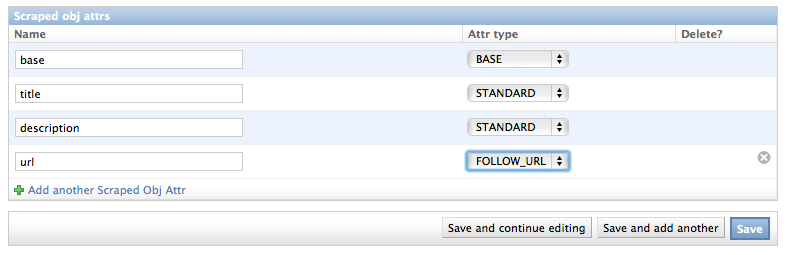
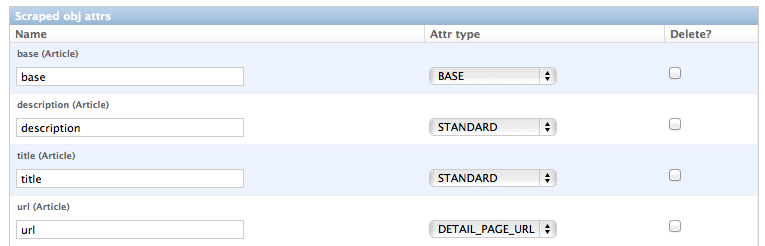
Renamed attr type of ScrapedObjAttr (FOLLOW_URL -> DETAIL_PAGE_URL) and ScraperElem.follow_url -> ScraperElem.from_detail_page in models.py for better on-the-fly understanding

diff --git a/dynamic_scraper/spiders/django_spider.py b/dynamic_scraper/spiders/django_spider.py
@@ -31,7 +31,7 @@ class DjangoSpider(DjangoBaseSpider):
         self._set_start_urls(self.scraper_runtime.url)
         self.scheduler = Scheduler(self.scraper.scraped_obj_class.scraper_scheduler_conf)
         self._check_scraper_config()
-        self.follow_url = False
+        self.from_detail_page = False
         self.loader = None
         self.items_read_count = 0
         self.items_save_count = 0
@@ -43,13 +43,13 @@ class DjangoSpider(DjangoBaseSpider):
         except ScraperElem.DoesNotExist:
             raise CloseSpider('Please define a base scraper elem in your database!')
         try:
-            self.scraper.get_follow_url_elem() 
+            self.scraper.get_detail_page_url_elem() 
         except ScraperElem.DoesNotExist:
-            raise CloseSpider('Please define a url scraper elem in your database!')
+            raise CloseSpider('Please define a detail page url scraper elem in your database!')
         if(len(self.scraper.get_base_elems()) > 1):
             raise CloseSpider('A scraper can\'t have more than one base scraper elem!')
-        if(len(self.scraper.get_follow_url_elems()) > 1):
-            raise CloseSpider('A scraper can\'t have more than one url scraper elem!')
+        if(len(self.scraper.get_detail_page_url_elems()) > 1):
+            raise CloseSpider('A scraper can\'t have more than one detail page url scraper elem!')
 
 
     def _set_start_urls(self, scrape_url):
@@ -100,8 +100,6 @@ class DjangoSpider(DjangoBaseSpider):
 
     def _set_loader_context(self, context_str):
         try:
-            #add_ctxt1 = "'pre_log_msg': '" + self.pre_log_msg + "'"
-            #context_str = ", ".join([context_str, add_ctxt1])
             context_str = context_str.strip(', ')
             context = ast.literal_eval("{" + context_str + "}")
             self.loader.context = context
@@ -120,7 +118,7 @@ class DjangoSpider(DjangoBaseSpider):
 
 
     def _scrape_item_attr(self, scraper_elem):
-        if(self.follow_url == scraper_elem.follow_url):
+        if(self.from_detail_page == scraper_elem.from_detail_page):
             procs = self._get_processors(scraper_elem.processors)
             self._set_loader_context(scraper_elem.proc_ctxt)
             if(scraper_elem.reg_exp):
@@ -131,19 +129,19 @@ class DjangoSpider(DjangoBaseSpider):
 
     def _set_loader(self, response, hxs, item):
         if not hxs:
-            self.follow_url = True
+            self.from_detail_page = True
             item = response.request.meta['item']
             self.loader = XPathItemLoader(item=item, response=response)
             self.loader.default_output_processor = TakeFirst()
         else:
-            self.follow_url = False
+            self.from_detail_page = False
             self.loader = XPathItemLoader(item=item, selector=hxs)
             self.loader.default_output_processor = TakeFirst()
 
 
     def parse_item(self, response, hxs=None):
         self._set_loader(response, hxs, self.scraped_obj_item_class())
-        if not self.follow_url:
+        if not self.from_detail_page:
             self.items_read_count += 1
             
         elems = self.scraper.get_scrape_elems()
@@ -156,7 +154,7 @@ class DjangoSpider(DjangoBaseSpider):
     def parse(self, response):
         hxs = HtmlXPathSelector(response)
         base_elem = self.scraper.get_base_elem()
-        url_elem = self.scraper.get_follow_url_elem()
+        url_elem = self.scraper.get_detail_page_url_elem()
         base_objects = hxs.select(base_elem.x_path)
         if(len(base_objects) == 0):
             self.log("No base objects found!", log.ERROR)
@@ -170,7 +168,7 @@ class DjangoSpider(DjangoBaseSpider):
             url_name = url_elem.scraped_obj_attr.name
             if(item and url_name in item):
                 cnt = self.scraped_obj_class.objects.filter(url=item[url_name]).count()
-                cnt2 = self.scraper.get_scrape_elems_with_follow_url().count()
+                cnt2 = self.scraper.get_from_detail_page_scrape_elems().count()
                 # Check for double items
                 if cnt > 0:
                     item[url_name] = 'DOUBLE'

diff --git a/dynamic_scraper/models.py b/dynamic_scraper/models.py
@@ -26,7 +26,7 @@ class ScrapedObjAttr(models.Model):
     ATTR_TYPE_CHOICES = (
         ('S', 'STANDARD'),
         ('B', 'BASE'),
-        ('U', 'FOLLOW_URL'),
+        ('U', 'DETAIL_PAGE_URL'),
         ('I', 'IMAGE'),
     )
     name = models.CharField(max_length=200)
@@ -62,10 +62,10 @@ class Scraper(models.Model):
     def get_base_elem(self):
         return self.scraperelem_set.get(scraped_obj_attr__attr_type='B')
     
-    def get_follow_url_elems(self):
+    def get_detail_page_url_elems(self):
         return self.scraperelem_set.filter(scraped_obj_attr__attr_type='U')
     
-    def get_follow_url_elem(self):
+    def get_detail_page_url_elem(self):
         return self.scraperelem_set.get(scraped_obj_attr__attr_type='U')
 
     def get_standard_elems(self):
@@ -89,8 +89,8 @@ class Scraper(models.Model):
         q3 = Q(scraped_obj_attr__attr_type='I')
         return self.scraperelem_set.filter(q1 | q2 | q3).filter(mandatory=True)
     
-    def get_scrape_elems_with_follow_url(self):
-        q1 = Q(follow_url=True)
+    def get_from_detail_page_scrape_elems(self):
+        q1 = Q(from_detail_page=True)
         return self.scraperelem_set.filter(q1)
     
     def __unicode__(self):
@@ -102,7 +102,7 @@ class ScraperElem(models.Model):
     scraper = models.ForeignKey(Scraper)   
     x_path = models.CharField(max_length=200)
     reg_exp = models.CharField(max_length=200, blank=True)
-    follow_url = models.BooleanField()
+    from_detail_page = models.BooleanField()
     processors = models.CharField(max_length=200, blank=True)
     proc_ctxt = models.CharField(max_length=200, blank=True)
     mandatory = models.BooleanField(default=True)

diff --git a/tests/scraper/scraper_test.py b/tests/scraper/scraper_test.py
@@ -114,16 +114,16 @@ class ScraperTest(TestCase):
         self.scraper.save()
         
         self.se_base = ScraperElem(scraped_obj_attr=self.soa_base, scraper=self.scraper, 
-        x_path=u'//ul/li', follow_url=False)
+        x_path=u'//ul/li', from_detail_page=False)
         self.se_base.save()
         self.se_title = ScraperElem(scraped_obj_attr=self.soa_title, scraper=self.scraper, 
-            x_path=u'a/text()', follow_url=False)
+            x_path=u'a/text()', from_detail_page=False)
         self.se_title.save()
         self.se_url = ScraperElem(scraped_obj_attr=self.soa_url, scraper=self.scraper, 
-            x_path=u'a/@href', follow_url=False)
+            x_path=u'a/@href', from_detail_page=False)
         self.se_url.save()
         self.se_desc = ScraperElem(scraped_obj_attr=self.soa_desc, scraper=self.scraper, 
-            x_path=u'//div/div[@class="description"]/text()', follow_url=True, mandatory=False)
+            x_path=u'//div/div[@class="description"]/text()', from_detail_page=True, mandatory=False)
         self.se_desc.save()
         
         self.sched_rt = SchedulerRuntime()

diff --git a/tests/scraper/scraper_run_test.py b/tests/scraper/scraper_run_test.py
@@ -29,9 +29,9 @@ class ScraperRunTest(ScraperTest):
         self.assertEqual(Event.objects.get(title='Event 1').description, u'Event 1 description')
     
     
-    def test_standard_field_as_follow_url_hack(self):
+    def test_standard_field_as_detail_page_url_hack(self):
         self.se_desc.x_path = u'a/text()'
-        self.se_desc.follow_url = False
+        self.se_desc.from_detail_page = False
         self.se_desc.save()
         self.soa_title.attr_type = 'U'
         self.soa_title.save()

diff --git a/dynamic_scraper/pipelines.py b/dynamic_scraper/pipelines.py
@@ -52,7 +52,7 @@ class DjangoImagesPipeline(ImagesPipeline):
 class ValidationPipeline(object):
 
     def process_item(self, item, spider):
-        url_elem = spider.scraper.get_follow_url_elem()
+        url_elem = spider.scraper.get_detail_page_url_elem()
         url_name = url_elem.scraped_obj_attr.name
         if url_name in item and item[url_name] == 'DOUBLE':
             raise DropItem("Double item.")

diff --git a/docs/getting_started.rst b/docs/getting_started.rst
@@ -222,23 +222,23 @@ types (taken from ``dynamic_scraper.models.ScrapedObjAttr``)::
 	ATTR_TYPE_CHOICES = (
 	    ('S', 'STANDARD'),
 	    ('B', 'BASE'),
-	    ('U', 'FOLLOW_URL'),
+	    ('U', 'DETAIL_PAGE_URL'),
 	    ('I', 'IMAGE'),
 	)
 
-``STANDARD``, ``BASE`` and ``FOLLOW_URL`` should be clear by now, ``IMAGE`` represents attributes which will 
+``STANDARD``, ``BASE`` and ``DETAIL_PAGE_URL`` should be clear by now, ``IMAGE`` represents attributes which will 
 hold images or screenshots. So for our open news example we define a base attribute called 'base' with 
 type ``BASE``, two standard elements 'title' and 'description' with type ``STANDARD`` 
-and a url field called 'url' with type ``FOLLOW_URL``. Your definition form for your scraped obj class 
+and a url field called 'url' with type ``DETAIL_PAGE_URL``. Your definition form for your scraped obj class 
 should look similar to the screenshot below:
 
 .. image:: images/screenshot_django-admin_add_scraped_obj_class.png
 
 .. note::
 	Though it is a bit of a hack: if you want to **scrape items on a website not leading to detail pages** you can do
-	this by defining another (non url) field as the ``follow_url`` field, e.g. a title or an id. Make sure that this
-	field is unique since the ``follow_url`` field is also used as an identifier for preventing double
-	entries in the DB and don't use the ``follow_url`` option in your scraper definitions. It is also not possible
+	this by defining another (non url) field as the ``DETAIL_PAGE_URL`` field, e.g. a title or an id. Make sure that this
+	field is unique since the ``DETAIL_PAGE_URL`` field is also used as an identifier for preventing double
+	entries in the DB and don't use the ``from_detail_page`` option in your scraper definitions. It is also not possible
 	to use checkers with this workaround. However: it works, I even wrote a unit test for this hack! :-)
 
 Defining your scrapers
@@ -256,7 +256,7 @@ The main part of defining a scraper in DDS is to create several scraper elements
 the data for the specific :ref:`scraped_obj_attr` by following the main concepts of Scrapy_ for scraping
 data from websites. In the fields named 'x_path' and 'reg_exp' an XPath and (optionally) a regular expression
 is defined to extract the data from the page, following Scrapy's concept of 
-`XPathSelectors <http://readthedocs.org/docs/scrapy/en/latest/topics/selectors.html>`_. The 'follow_url'
+`XPathSelectors <http://readthedocs.org/docs/scrapy/en/latest/topics/selectors.html>`_. The 'from_detail_page'
 check box tells the scraper, if the data for the object attibute for the scraper element should be extracted
 from the overview page or the detail page of the specific item. The fields 'processors' and 'processors_ctxt' are
 used to define output processors for your scraped data like they are defined in Scrapy's
@@ -298,7 +298,7 @@ scraper element on default.
 2. It is not necessary but just for the purpose of this example let's scrape the title of a news article
 from the article detail page. On an article detail page the headline of the article is enclosed by a
 ``<h1>`` tag with an id named 'firstHeading'. So ``//h1[@id="firstHeading"]/text()`` should give us the headline.
-Since we want to scrape from the detail page, we have to activate the 'follow_url' check box.
+Since we want to scrape from the detail page, we have to activate the 'from_detail_page' check box.
 
 3. All the standard elements we want to scrape from the overview page are defined relative to the
 base element. Therefore keep in mind to leave the trailing double slashes of XPath definitions.
